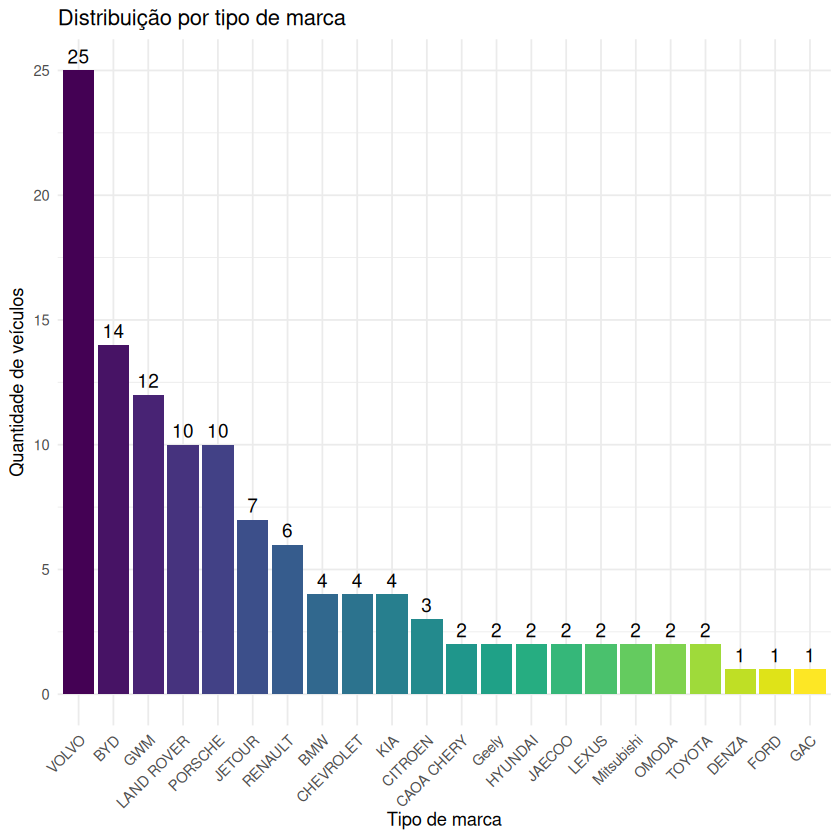
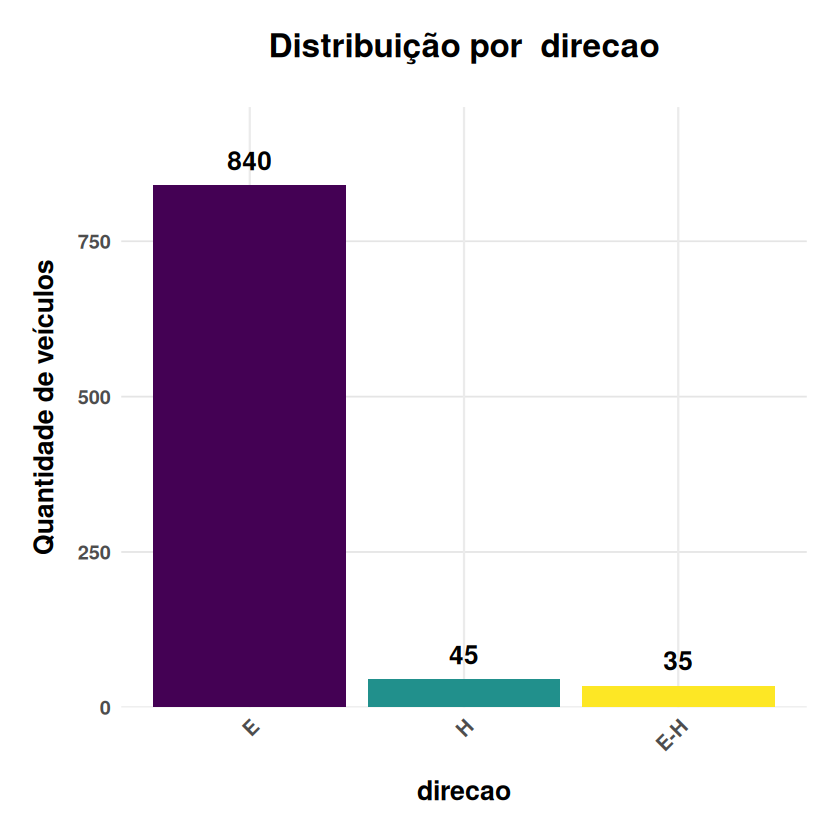
Add files via upload

Changed region(s): [[0.0, 0.0619, 0.9905, 0.9905], [0.0619, 0.0, 0.8048, 0.0929]]

diff --git a/README.md b/README.md
@@ -55,40 +55,39 @@ A função *glimpse()* do **dplyr** oferece uma visão panorâmica da estrutura 
 glimpse(pbev)
 ```
 
-```R
-Rows: 920
-Columns: 30
-$ categoria                <chr> "Sub Compacto", "Sub Compacto", "Sub Compacto…
-$ marca                    <chr> "BYD", "BYD", "BYD", "FIAT", "FIAT", "FIAT", …
-$ modelo                   <chr> "DOLPHIN MINI", "DOLPHIN MINI", "DOLPHIN MINI…
-$ versao                   <chr> "GS EV", "GS 5 EV", "GL 5 EV", "ICON", "TREKK…
-$ motor                    <chr> "Elétrico", "Elétrico", "Elétrico", "ELÉTRICO…
-$ propulsao                <chr> "Elétrico", "Elétrico", "Elétrico", "Elétrico…
-$ transmissao              <chr> "NA", "NA", "A-1", "A-1", "M-5", "M-5", "A-1"…
-$ ar_cond                  <chr> "S", "S", "S", "S", "S", "S", "S", "S", "S", …
-$ direcao                  <chr> "E", "E", "E", "E", "E", "E", "E", "E", "E", …
-$ combustivel              <chr> "E", "E", "E", "E", "F", "F", "E", "E", "E", …
-$ nmog_nox_mg_km           <chr> "NA", "NA", "NA", "NA", "38", "37", "NA", "NA…
-$ co_mg_km                 <chr> "NA", "NA", "NA", "NA", "280", "348", "NA", "…
-$ nox_g_km                 <chr> "NA", "NA", "NA", "NA", "3", "4", "NA", "NA",…
-$ red_limite               <chr> "A", "A", "A", "A", "B", "B", "A", "A", "A", …
-$ co2_fossil_g_km          <chr> "NA", "NA", "NA", "NA", "0", "0", "NA", "NA",…
-$ co2e_fossil_g_km         <chr> "0", "0", "NA", "NA", "91", "87", "NA", "NA",…
-$ co2e_vehp_g_km           <chr> "NA", "NA", "NA", "NA", "NA", "NA", "NA", "NA…
-$ etanol_cid_kml           <chr> "NA", "NA", "NA", "NA", "9.8", "10.1", "NA", …
-$ etanol_est_kml           <chr> "NA", "NA", "NA", "NA", "10.6", "11.1", "NA",…
-$ gas_diesel_cid_kml       <chr> "NA", "NA", "NA", "NA", "14.0", "14.5", "NA",…
-$ gas_diesel_est_kml       <chr> "NA", "NA", "NA", "NA", "15.1", "15.8", "NA",…
-$ eletr_ve_gas_cid_kmle    <chr> "58.6", "58.6", "60.6", "47.3", "NA", "NA", "…
-$ eletr_ve_gas_est_kmle    <chr> "41.9", "41.9", "44.4", "40.4", "NA", "NA", "…
-$ eletr_vehp_flex_cid_kmle <chr> "NA", "NA", "NA", "NA", "NA", "NA", "NA", "NA…
-$ eletr_vehp_flex_est_kmle <chr> "NA", "NA", "NA", "NA", "NA", "NA", "NA", "NA…
-$ consumo_mj_km            <chr> "0.41", "0.41", "0.39", "0.46", "1.46", "1.40…
-$ autonomia_km             <chr> "280", "280", "224", "227", "NA", "NA", "181"…
-$ class_rel_cat            <chr> "A", "A", "A", "C", "E", "E", "E", "E", "B", …
-$ class_abs_geral          <chr> "A", "A", "A", "A", "B", "B", "A", "A", "A", …
-$ selo_conpet              <chr> "NÃO", "NÃO", "NÃO", "NÃO", "NÃO", "NÃO", "NÃ…
-```
+    Rows: 920
+    Columns: 30
+    $ categoria                [3m[90m<chr>[39m[23m "Sub Compacto"[90m, [39m"Sub Compacto"[90m, [39m"Sub Compacto…
+    $ marca                    [3m[90m<chr>[39m[23m "BYD"[90m, [39m"BYD"[90m, [39m"BYD"[90m, [39m"FIAT"[90m, [39m"FIAT"[90m, [39m"FIAT"[90m, [39m…
+    $ modelo                   [3m[90m<chr>[39m[23m "DOLPHIN MINI"[90m, [39m"DOLPHIN MINI"[90m, [39m"DOLPHIN MINI…
+    $ versao                   [3m[90m<chr>[39m[23m "GS EV"[90m, [39m"GS 5 EV"[90m, [39m"GL 5 EV"[90m, [39m"ICON"[90m, [39m"TREKK…
+    $ motor                    [3m[90m<chr>[39m[23m "Elétrico"[90m, [39m"Elétrico"[90m, [39m"Elétrico"[90m, [39m"ELÉTRICO…
+    $ propulsao                [3m[90m<chr>[39m[23m "Elétrico"[90m, [39m"Elétrico"[90m, [39m"Elétrico"[90m, [39m"Elétrico…
+    $ transmissao              [3m[90m<chr>[39m[23m "NA"[90m, [39m"NA"[90m, [39m"A-1"[90m, [39m"A-1"[90m, [39m"M-5"[90m, [39m"M-5"[90m, [39m"A-1"…
+    $ ar_cond                  [3m[90m<chr>[39m[23m "S"[90m, [39m"S"[90m, [39m"S"[90m, [39m"S"[90m, [39m"S"[90m, [39m"S"[90m, [39m"S"[90m, [39m"S"[90m, [39m"S"[90m, [39m…
+    $ direcao                  [3m[90m<chr>[39m[23m "E"[90m, [39m"E"[90m, [39m"E"[90m, [39m"E"[90m, [39m"E"[90m, [39m"E"[90m, [39m"E"[90m, [39m"E"[90m, [39m"E"[90m, [39m…
+    $ combustivel              [3m[90m<chr>[39m[23m "E"[90m, [39m"E"[90m, [39m"E"[90m, [39m"E"[90m, [39m"F"[90m, [39m"F"[90m, [39m"E"[90m, [39m"E"[90m, [39m"E"[90m, [39m…
+    $ nmog_nox_mg_km           [3m[90m<chr>[39m[23m "NA"[90m, [39m"NA"[90m, [39m"NA"[90m, [39m"NA"[90m, [39m"38"[90m, [39m"37"[90m, [39m"NA"[90m, [39m"NA…
+    $ co_mg_km                 [3m[90m<chr>[39m[23m "NA"[90m, [39m"NA"[90m, [39m"NA"[90m, [39m"NA"[90m, [39m"280"[90m, [39m"348"[90m, [39m"NA"[90m, [39m"…
+    $ nox_g_km                 [3m[90m<chr>[39m[23m "NA"[90m, [39m"NA"[90m, [39m"NA"[90m, [39m"NA"[90m, [39m"3"[90m, [39m"4"[90m, [39m"NA"[90m, [39m"NA"[90m,[39m…
+    $ red_limite               [3m[90m<chr>[39m[23m "A"[90m, [39m"A"[90m, [39m"A"[90m, [39m"A"[90m, [39m"B"[90m, [39m"B"[90m, [39m"A"[90m, [39m"A"[90m, [39m"A"[90m, [39m…
+    $ co2_fossil_g_km          [3m[90m<chr>[39m[23m "NA"[90m, [39m"NA"[90m, [39m"NA"[90m, [39m"NA"[90m, [39m"0"[90m, [39m"0"[90m, [39m"NA"[90m, [39m"NA"[90m,[39m…
+    $ co2e_fossil_g_km         [3m[90m<chr>[39m[23m "0"[90m, [39m"0"[90m, [39m"NA"[90m, [39m"NA"[90m, [39m"91"[90m, [39m"87"[90m, [39m"NA"[90m, [39m"NA"[90m,[39m…
+    $ co2e_vehp_g_km           [3m[90m<chr>[39m[23m "NA"[90m, [39m"NA"[90m, [39m"NA"[90m, [39m"NA"[90m, [39m"NA"[90m, [39m"NA"[90m, [39m"NA"[90m, [39m"NA…
+    $ etanol_cid_kml           [3m[90m<chr>[39m[23m "NA"[90m, [39m"NA"[90m, [39m"NA"[90m, [39m"NA"[90m, [39m"9.8"[90m, [39m"10.1"[90m, [39m"NA"[90m, [39m…
+    $ etanol_est_kml           [3m[90m<chr>[39m[23m "NA"[90m, [39m"NA"[90m, [39m"NA"[90m, [39m"NA"[90m, [39m"10.6"[90m, [39m"11.1"[90m, [39m"NA"[90m,[39m…
+    $ gas_diesel_cid_kml       [3m[90m<chr>[39m[23m "NA"[90m, [39m"NA"[90m, [39m"NA"[90m, [39m"NA"[90m, [39m"14.0"[90m, [39m"14.5"[90m, [39m"NA"[90m,[39m…
+    $ gas_diesel_est_kml       [3m[90m<chr>[39m[23m "NA"[90m, [39m"NA"[90m, [39m"NA"[90m, [39m"NA"[90m, [39m"15.1"[90m, [39m"15.8"[90m, [39m"NA"[90m,[39m…
+    $ eletr_ve_gas_cid_kmle    [3m[90m<chr>[39m[23m "58.6"[90m, [39m"58.6"[90m, [39m"60.6"[90m, [39m"47.3"[90m, [39m"NA"[90m, [39m"NA"[90m, [39m"…
+    $ eletr_ve_gas_est_kmle    [3m[90m<chr>[39m[23m "41.9"[90m, [39m"41.9"[90m, [39m"44.4"[90m, [39m"40.4"[90m, [39m"NA"[90m, [39m"NA"[90m, [39m"…
+    $ eletr_vehp_flex_cid_kmle [3m[90m<chr>[39m[23m "NA"[90m, [39m"NA"[90m, [39m"NA"[90m, [39m"NA"[90m, [39m"NA"[90m, [39m"NA"[90m, [39m"NA"[90m, [39m"NA…
+    $ eletr_vehp_flex_est_kmle [3m[90m<chr>[39m[23m "NA"[90m, [39m"NA"[90m, [39m"NA"[90m, [39m"NA"[90m, [39m"NA"[90m, [39m"NA"[90m, [39m"NA"[90m, [39m"NA…
+    $ consumo_mj_km            [3m[90m<chr>[39m[23m "0.41"[90m, [39m"0.41"[90m, [39m"0.39"[90m, [39m"0.46"[90m, [39m"1.46"[90m, [39m"1.40…
+    $ autonomia_km             [3m[90m<chr>[39m[23m "280"[90m, [39m"280"[90m, [39m"224"[90m, [39m"227"[90m, [39m"NA"[90m, [39m"NA"[90m, [39m"181"…
+    $ class_rel_cat            [3m[90m<chr>[39m[23m "A"[90m, [39m"A"[90m, [39m"A"[90m, [39m"C"[90m, [39m"E"[90m, [39m"E"[90m, [39m"E"[90m, [39m"E"[90m, [39m"B"[90m, [39m…
+    $ class_abs_geral          [3m[90m<chr>[39m[23m "A"[90m, [39m"A"[90m, [39m"A"[90m, [39m"A"[90m, [39m"B"[90m, [39m"B"[90m, [39m"A"[90m, [39m"A"[90m, [39m"A"[90m, [39m…
+    $ selo_conpet              [3m[90m<chr>[39m[23m "NÃO"[90m, [39m"NÃO"[90m, [39m"NÃO"[90m, [39m"NÃO"[90m, [39m"NÃO"[90m, [39m"NÃO"[90m, [39m"NÃ…
+
 
 ## Funções personalizadas para análise
 
@@ -99,15 +98,14 @@ Esta função simplifica a seleção de colunas específicas, retornando apenas 
 
 ```R
 selecionar_colunas <- function(df, ...) {
-  dplyr::select(.data = df, ...) %>% 
-    head()
+  dplyr::select(.data = df, ...)  
 }
 ```
 
 
 ```R
 # Seleção com múltiplos critérios
-selecionar_colunas(pbev, marca, modelo, propulsao, combustivel)
+head(selecionar_colunas(pbev, marca, modelo, propulsao, combustivel))
 ```
 
 
@@ -138,10 +136,36 @@ A função de filtro permite segmentar os dados conforme critérios específicos
 filtrar_colunas <- function(df, ...) { 
   
   # pass the dots argument
-  dplyr::filter(.data = df, ...) %>% 
-    head()
-  }
+  dplyr::filter(.data = df, ...)
+}
 ```
+
+
+```R
+# Filtro com critério simples
+filtrar_colunas(pbev, combustivel == 'E100') 
+```
+
+
+<table class="dataframe">
+<caption>A data.frame: 8 × 30</caption>
+<thead>
+	<tr><th scope=col>categoria</th><th scope=col>marca</th><th scope=col>modelo</th><th scope=col>versao</th><th scope=col>motor</th><th scope=col>propulsao</th><th scope=col>transmissao</th><th scope=col>ar_cond</th><th scope=col>direcao</th><th scope=col>combustivel</th><th scope=col>⋯</th><th scope=col>gas_diesel_est_kml</th><th scope=col>eletr_ve_gas_cid_kmle</th><th scope=col>eletr_ve_gas_est_kmle</th><th scope=col>eletr_vehp_flex_cid_kmle</th><th scope=col>eletr_vehp_flex_est_kmle</th><th scope=col>consumo_mj_km</th><th scope=col>autonomia_km</th><th scope=col>class_rel_cat</th><th scope=col>class_abs_geral</th><th scope=col>selo_conpet</th></tr>
+	<tr><th scope=col>&lt;chr&gt;</th><th scope=col>&lt;chr&gt;</th><th scope=col>&lt;chr&gt;</th><th scope=col>&lt;chr&gt;</th><th scope=col>&lt;chr&gt;</th><th scope=col>&lt;chr&gt;</th><th scope=col>&lt;chr&gt;</th><th scope=col>&lt;chr&gt;</th><th scope=col>&lt;chr&gt;</th><th scope=col>&lt;chr&gt;</th><th scope=col>⋯</th><th scope=col>&lt;chr&gt;</th><th scope=col>&lt;chr&gt;</th><th scope=col>&lt;chr&gt;</th><th scope=col>&lt;chr&gt;</th><th scope=col>&lt;chr&gt;</th><th scope=col>&lt;chr&gt;</th><th scope=col>&lt;chr&gt;</th><th scope=col>&lt;chr&gt;</th><th scope=col>&lt;chr&gt;</th><th scope=col>&lt;chr&gt;</th></tr>
+</thead>
+<tbody>
+	<tr><td>Médio</td><td>CHEVROLET</td><td>ONIX     </td><td>10TAT HB ALC </td><td>1.0T - 12V</td><td>Combustão</td><td>A-6</td><td>S</td><td>E</td><td>E100</td><td>⋯</td><td>NA</td><td>NA</td><td>NA</td><td>NA</td><td>NA</td><td>1.55</td><td>NA</td><td>C</td><td>C</td><td>NÃO</td></tr>
+	<tr><td>Médio</td><td>CHEVROLET</td><td>ONIX     </td><td>10TAT LT1 ALC</td><td>1.0T - 12V</td><td>Combustão</td><td>A-6</td><td>S</td><td>E</td><td>E100</td><td>⋯</td><td>NA</td><td>NA</td><td>NA</td><td>NA</td><td>NA</td><td>1.55</td><td>NA</td><td>C</td><td>C</td><td>NÃO</td></tr>
+	<tr><td>Médio</td><td>CHEVROLET</td><td>ONIX     </td><td>10TAT LTZ ALC</td><td>1.0T - 12V</td><td>Combustão</td><td>A-6</td><td>S</td><td>E</td><td>E100</td><td>⋯</td><td>NA</td><td>NA</td><td>NA</td><td>NA</td><td>NA</td><td>1.55</td><td>NA</td><td>C</td><td>C</td><td>NÃO</td></tr>
+	<tr><td>Médio</td><td>CHEVROLET</td><td>ONIX     </td><td>10TAT PR2 ALC</td><td>1.0T - 12V</td><td>Combustão</td><td>A-6</td><td>S</td><td>E</td><td>E100</td><td>⋯</td><td>NA</td><td>NA</td><td>NA</td><td>NA</td><td>NA</td><td>1.55</td><td>NA</td><td>C</td><td>C</td><td>NÃO</td></tr>
+	<tr><td>Médio</td><td>CHEVROLET</td><td>ONIX PLUS</td><td>10TAT NB ALC </td><td>1.0T - 12V</td><td>Combustão</td><td>A-6</td><td>S</td><td>E</td><td>E100</td><td>⋯</td><td>NA</td><td>NA</td><td>NA</td><td>NA</td><td>NA</td><td>1.54</td><td>NA</td><td>C</td><td>C</td><td>NÃO</td></tr>
+	<tr><td>Médio</td><td>CHEVROLET</td><td>ONIX PLUS</td><td>10TAT LT1 ALC</td><td>1.0T - 12V</td><td>Combustão</td><td>A-6</td><td>S</td><td>E</td><td>E100</td><td>⋯</td><td>NA</td><td>NA</td><td>NA</td><td>NA</td><td>NA</td><td>1.54</td><td>NA</td><td>C</td><td>C</td><td>NÃO</td></tr>
+	<tr><td>Médio</td><td>CHEVROLET</td><td>ONIX PLUS</td><td>10TAT LTZ ALC</td><td>1.0T - 12V</td><td>Combustão</td><td>A-6</td><td>S</td><td>E</td><td>E100</td><td>⋯</td><td>NA</td><td>NA</td><td>NA</td><td>NA</td><td>NA</td><td>1.54</td><td>NA</td><td>C</td><td>C</td><td>NÃO</td></tr>
+	<tr><td>Médio</td><td>CHEVROLET</td><td>ONIX PLUS</td><td>10TAT PR2 ALC</td><td>1.0T - 12V</td><td>Combustão</td><td>A-6</td><td>S</td><td>E</td><td>E100</td><td>⋯</td><td>NA</td><td>NA</td><td>NA</td><td>NA</td><td>NA</td><td>1.54</td><td>NA</td><td>C</td><td>C</td><td>NÃO</td></tr>
+</tbody>
+</table>
+
+
 
 
 ```R
@@ -153,12 +177,12 @@ filtrar_colunas(pbev, propulsao == 'Combustão', consumo_mj_km < 1.40)
 <table class="dataframe">
 <caption>A data.frame: 2 × 30</caption>
 <thead>
-	<tr><th></th><th scope=col>categoria</th><th scope=col>marca</th><th scope=col>modelo</th><th scope=col>versao</th><th scope=col>motor</th><th scope=col>propulsao</th><th scope=col>transmissao</th><th scope=col>ar_cond</th><th scope=col>direcao</th><th scope=col>combustivel</th><th scope=col>⋯</th><th scope=col>gas_diesel_est_kml</th><th scope=col>eletr_ve_gas_cid_kmle</th><th scope=col>eletr_ve_gas_est_kmle</th><th scope=col>eletr_vehp_flex_cid_kmle</th><th scope=col>eletr_vehp_flex_est_kmle</th><th scope=col>consumo_mj_km</th><th scope=col>autonomia_km</th><th scope=col>class_rel_cat</th><th scope=col>class_abs_geral</th><th scope=col>selo_conpet</th></tr>
-	<tr><th></th><th scope=col>&lt;chr&gt;</th><th scope=col>&lt;chr&gt;</th><th scope=col>&lt;chr&gt;</th><th scope=col>&lt;chr&gt;</th><th scope=col>&lt;chr&gt;</th><th scope=col>&lt;chr&gt;</th><th scope=col>&lt;chr&gt;</th><th scope=col>&lt;chr&gt;</th><th scope=col>&lt;chr&gt;</th><th scope=col>&lt;chr&gt;</th><th scope=col>⋯</th><th scope=col>&lt;chr&gt;</th><th scope=col>&lt;chr&gt;</th><th scope=col>&lt;chr&gt;</th><th scope=col>&lt;chr&gt;</th><th scope=col>&lt;chr&gt;</th><th scope=col>&lt;chr&gt;</th><th scope=col>&lt;chr&gt;</th><th scope=col>&lt;chr&gt;</th><th scope=col>&lt;chr&gt;</th><th scope=col>&lt;chr&gt;</th></tr>
+	<tr><th scope=col>categoria</th><th scope=col>marca</th><th scope=col>modelo</th><th scope=col>versao</th><th scope=col>motor</th><th scope=col>propulsao</th><th scope=col>transmissao</th><th scope=col>ar_cond</th><th scope=col>direcao</th><th scope=col>combustivel</th><th scope=col>⋯</th><th scope=col>gas_diesel_est_kml</th><th scope=col>eletr_ve_gas_cid_kmle</th><th scope=col>eletr_ve_gas_est_kmle</th><th scope=col>eletr_vehp_flex_cid_kmle</th><th scope=col>eletr_vehp_flex_est_kmle</th><th scope=col>consumo_mj_km</th><th scope=col>autonomia_km</th><th scope=col>class_rel_cat</th><th scope=col>class_abs_geral</th><th scope=col>selo_conpet</th></tr>
+	<tr><th scope=col>&lt;chr&gt;</th><th scope=col>&lt;chr&gt;</th><th scope=col>&lt;chr&gt;</th><th scope=col>&lt;chr&gt;</th><th scope=col>&lt;chr&gt;</th><th scope=col>&lt;chr&gt;</th><th scope=col>&lt;chr&gt;</th><th scope=col>&lt;chr&gt;</th><th scope=col>&lt;chr&gt;</th><th scope=col>&lt;chr&gt;</th><th scope=col>⋯</th><th scope=col>&lt;chr&gt;</th><th scope=col>&lt;chr&gt;</th><th scope=col>&lt;chr&gt;</th><th scope=col>&lt;chr&gt;</th><th scope=col>&lt;chr&gt;</th><th scope=col>&lt;chr&gt;</th><th scope=col>&lt;chr&gt;</th><th scope=col>&lt;chr&gt;</th><th scope=col>&lt;chr&gt;</th><th scope=col>&lt;chr&gt;</th></tr>
 </thead>
 <tbody>
-	<tr><th scope=row>1</th><td>Médio</td><td>CHEVROLET</td><td>ONIX     </td><td>MT</td><td>1.0T - 12V</td><td>Combustão</td><td>M-6</td><td>S</td><td>E</td><td>F</td><td>⋯</td><td>17.7</td><td>NA</td><td>NA</td><td>NA</td><td>NA</td><td>1.38</td><td>NA</td><td>A</td><td>B</td><td>SIM</td></tr>
-	<tr><th scope=row>2</th><td>Médio</td><td>CHEVROLET</td><td>ONIX PLUS</td><td>MT</td><td>1.0 - 12 V</td><td>Combustão</td><td>M-6</td><td>S</td><td>E</td><td>F</td><td>⋯</td><td>17.1</td><td>NA</td><td>NA</td><td>NA</td><td>NA</td><td>1.39</td><td>NA</td><td>A</td><td>B</td><td>SIM</td></tr>
+	<tr><td>Médio</td><td>CHEVROLET</td><td>ONIX     </td><td>MT</td><td>1.0T - 12V</td><td>Combustão</td><td>M-6</td><td>S</td><td>E</td><td>F</td><td>⋯</td><td>17.7</td><td>NA</td><td>NA</td><td>NA</td><td>NA</td><td>1.38</td><td>NA</td><td>A</td><td>B</td><td>SIM</td></tr>
+	<tr><td>Médio</td><td>CHEVROLET</td><td>ONIX PLUS</td><td>MT</td><td>1.0 - 12 V</td><td>Combustão</td><td>M-6</td><td>S</td><td>E</td><td>F</td><td>⋯</td><td>17.1</td><td>NA</td><td>NA</td><td>NA</td><td>NA</td><td>1.39</td><td>NA</td><td>A</td><td>B</td><td>SIM</td></tr>
 </tbody>
 </table>
 
@@ -180,15 +204,14 @@ agrupar_registros <- function(df, ...) {
   df %>% 
     group_by(...) %>% 
     summarise('Consumo médio' = mean(as.numeric(consumo_mj_km), na.rm = TRUE),
-              .groups = 'drop')  %>% 
-    head(12)
+              .groups = 'drop')
 }
 ```
 
 
 ```R
 # Agrupamento com múltiplos critérios
-agrupar_registros(pbev, categoria, propulsao)
+head(agrupar_registros(pbev, categoria, propulsao), n=12)
 ```
 
 
@@ -241,14 +264,13 @@ contar_registros <- function(df, ...) {
     group_by(...) %>% 
     summarise(count = n(),
               .groups = 'drop')  %>% 
-    dplyr::arrange(desc(count)) %>% 
-    head(12)
+    dplyr::arrange(desc(count)) 
 }
 ```
 
 
 ```R
-contar_registros(pbev, marca)
+head(contar_registros(pbev, marca),n=12)
 ```
 
 
@@ -271,6 +293,54 @@ contar_registros(pbev, marca)
 	<tr><td>FORD     </td><td>31</td></tr>
 	<tr><td>CITROEN  </td><td>30</td></tr>
 	<tr><td>BYD      </td><td>29</td></tr>
+</tbody>
+</table>
+
+
+
+**Contagem de veículos por tipo de combustível**
+
+
+```R
+contar_registros(pbev, combustivel)
+```
+
+
+<table class="dataframe">
+<caption>A tibble: 5 × 2</caption>
+<thead>
+	<tr><th scope=col>combustivel</th><th scope=col>count</th></tr>
+	<tr><th scope=col>&lt;chr&gt;</th><th scope=col>&lt;int&gt;</th></tr>
+</thead>
+<tbody>
+	<tr><td>G   </td><td>308</td></tr>
+	<tr><td>F   </td><td>290</td></tr>
+	<tr><td>E   </td><td>174</td></tr>
+	<tr><td>D   </td><td>140</td></tr>
+	<tr><td>E100</td><td>  8</td></tr>
+</tbody>
+</table>
+
+
+
+**Contagem de modelos movidos exclusivamente a etanol**
+
+
+```R
+pbev_etanol <- filtrar_colunas(pbev, combustivel == "E100")
+contar_registros(pbev_etanol, marca, modelo)
+```
+
+
+<table class="dataframe">
+<caption>A tibble: 2 × 3</caption>
+<thead>
+	<tr><th scope=col>marca</th><th scope=col>modelo</th><th scope=col>count</th></tr>
+	<tr><th scope=col>&lt;chr&gt;</th><th scope=col>&lt;chr&gt;</th><th scope=col>&lt;int&gt;</th></tr>
+</thead>
+<tbody>
+	<tr><td>CHEVROLET</td><td>ONIX     </td><td>4</td></tr>
+	<tr><td>CHEVROLET</td><td>ONIX PLUS</td><td>4</td></tr>
 </tbody>
 </table>
 
@@ -328,18 +398,57 @@ gerar_gráfico <- function(df1, x) {
   df1 <- df1 %>%
     mutate({{x}} := factor({{x}}, levels = pull(df_counts, {{x}})))
   
+  # Nome da variável para usar nos títulos
+  var_name <- rlang::as_name(enquo(x))
+  
   ggplot(df1, aes(x = {{x}}, fill = {{x}})) +
     geom_bar() +
-    geom_text(stat = "count", aes(label = after_stat(count)), vjust = -0.5, size = 4) +
-    scale_fill_viridis_d() +  # Paleta que suporta muitas cores
-    labs(title = paste("Distribuição por tipo de", rlang::as_name(enquo(x))),
-         x = paste("Tipo de", rlang::as_name(enquo(x))),
+    geom_text(stat = "count", 
+              aes(label = after_stat(count)), 
+              vjust = -0.8,        # Aumentado de -0.5 para -0.8 (mais acima)
+              size = 5.5,          # Tamanho 5.5 (equilibrado)
+              fontface = "bold",
+              color = "black") +
+    scale_fill_viridis_d() +
+    labs(title = paste("Distribuição por ", var_name),
+         x = var_name,
          y = "Quantidade de veículos") +
-    theme_minimal() +
-    theme(axis.text.x = element_text(angle = 45, hjust = 1),
-          legend.position = "none")
+    theme_minimal(base_size = 14) +
+    theme(
+      # Título principal - COM MAIS ESPAÇAMENTO
+      plot.title = element_text(size = 20, 
+                               face = "bold", 
+                               hjust = 0.5,
+                               margin = margin(b = 25)),  # Aumentado de 15 para 25
+      
+      # Margem superior do gráfico para dar mais espaço
+      plot.margin = margin(t = 20, r = 20, b = 20, l = 20),
+      
+      # Rótulos dos eixos
+      axis.title.x = element_text(size = 16, 
+                                  face = "bold",
+                                  margin = margin(t = 15)),  # Aumentado
+      axis.title.y = element_text(size = 16, 
+                                  face = "bold",
+                                  margin = margin(r = 10)),
+      
+      # Texto dos eixos (valores)
+      axis.text.x = element_text(size = 12, 
+                                 angle = 45, 
+                                 hjust = 1,
+                                 face = "bold"),
+      axis.text.y = element_text(size = 12,
+                                 face = "bold"),
+      
+      # Grade para melhor visualização
+      panel.grid.major.y = element_line(color = "gray90", linewidth = 0.5),
+      panel.grid.minor.y = element_blank(),
+      
+      legend.position = "none"
+    ) +
+    # Ajuste automático do limite superior do eixo Y para dar espaço aos textos
+    scale_y_continuous(expand = expansion(mult = c(0, 0.15)))  # 15% de espaço extra no topo
 }
-
 ```
 
 ### Distribuição por categoria
@@ -359,7 +468,7 @@ gerar_gráfico(pbev, categoria)
 
 
     
-![png](output_29_0.png)
+![png](output_34_0.png)
     
 
 
@@ -380,7 +489,7 @@ gerar_gráfico(pbev, propulsao)
 
 
     
-![png](output_31_0.png)
+![png](output_36_0.png)
     
 
 
@@ -403,7 +512,7 @@ gerar_gráfico(pbev, combustivel)
 
 
     
-![png](output_33_0.png)
+![png](output_38_0.png)
     
 
 
@@ -418,7 +527,7 @@ gerar_gráfico(pbev, direcao)
 
 
     
-![png](output_35_0.png)
+![png](output_40_0.png)
     
 
 
@@ -439,13 +548,13 @@ gerar_gráfico(pbev, class_abs_geral)
 
 
     
-![png](output_37_0.png)
+![png](output_42_0.png)
     
 
 
 ### Selo Conpet
 
-O **Selo Conpet** é concedido aos veículos mais eficientes. O gráfico mostra que 802 veículos (87% da amostra) não possuem o selo e que apenas 118 veículos (13%) são reconhecidos como energeticamente eficientes.
+O **Selo Conpet** é concedido aos veículos mais eficientes. O gráfico mostra que 802 veículos (87% da amostra) não possuem o selo e que apenas 118 veículos (13%) são reconhecidos como energeticamente eficientes. O segundo gráfico mostra quantos veículos possuem o selo, por marca.
 
 
 ```R
@@ -454,12 +563,10 @@ gerar_gráfico(pbev, selo_conpet)
 
 
     
-![png](output_39_0.png)
+![png](output_44_0.png)
     
 
-**Contagem de veículos com **Selo Conpet** por marca**
 
-Apesar da reduzida participação de mercado, os modelos elétricos lideram o ranking do **Selo Conpet**.
 
 ```R
 gerar_gráfico(pbev_com_selo, marca)
@@ -467,7 +574,7 @@ gerar_gráfico(pbev_com_selo, marca)
 
 
     
-![png](output_40_0.png)
+![png](output_45_0.png)
     
 
 
@@ -482,8 +589,6 @@ Apenas 13% dos veículos recebem o **Selo Conpet**, indicando que há espaço pa
 
 Em relação ao mercado, a categoria **Compacta** lidera em quantidade de modelos, enquanto os **Sub Compactos** mostram o melhor consumo médio, especialmente na versão elétrica.
 
-Acesse o dicionário dos dados em: [https://guiajf.github.io/pbev/dicionario_dados_pbev_2026.html/](https://guiajf.github.io/pbev/dicionario_dados_pbev_2026.html).
-
 
 
 **Referências**
@@ -495,3 +600,8 @@ Katti, V. (2021). *Programming with R {Dplyr} - As I Understand It!!* July 17, 2
 Wickham, H., Çetinkaya-Rundel, M., & Grolemund, G. (2023). *R for Data Science* (2e). https://r4ds.hadley.nz.
 
 Wickham, H., François, R., Henry, L., Müller, K., & Vaughan, D. (2026). *dplyr: A Grammar of Data Manipulation*. R package version 1.2.1. https://dplyr.tidyverse.org.
+
+
+```R
+
+```
